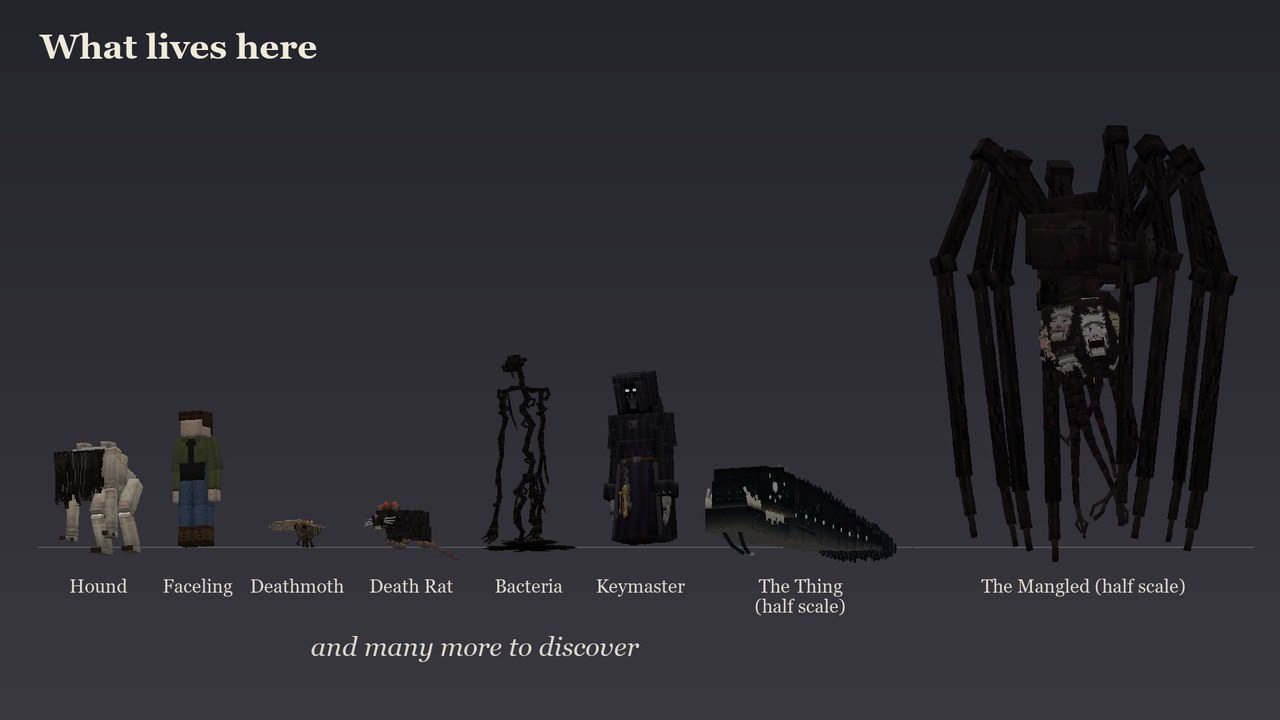
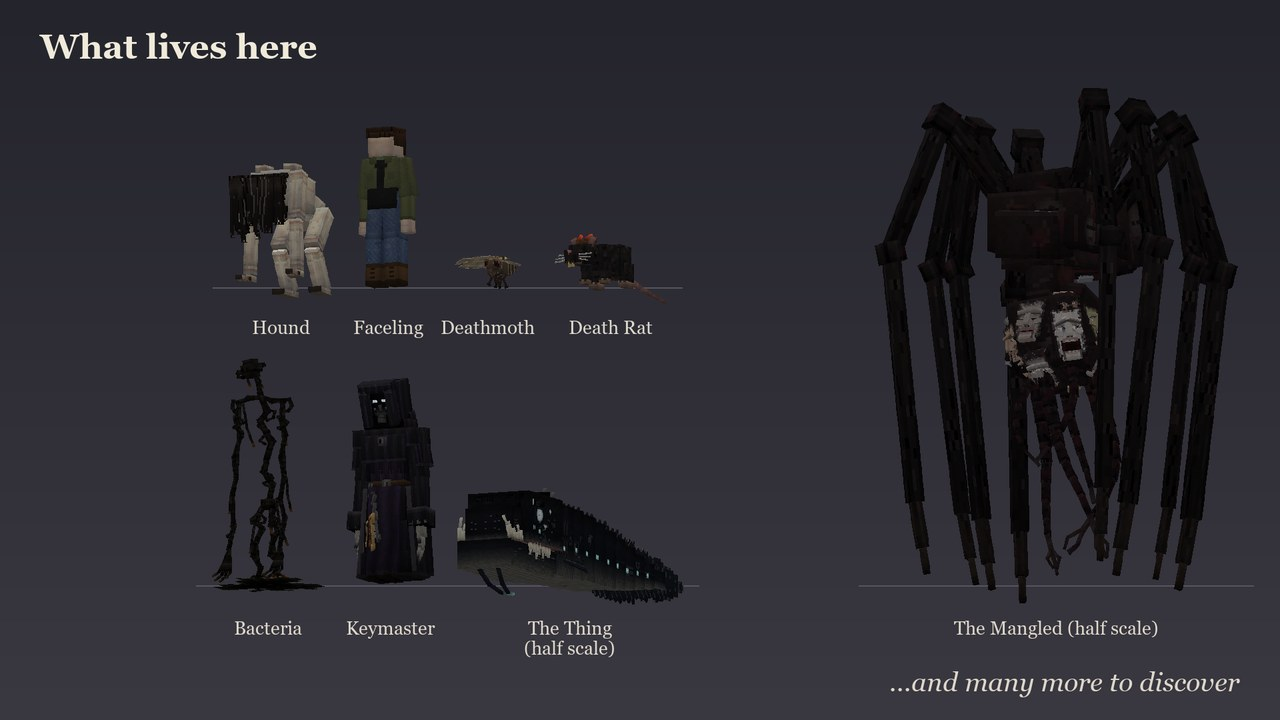
Mod page line-up: the eight in two rows beside the Mangled, larger, "...and many more to discover" bottom right

diff --git a/tools/lineup.py b/tools/lineup.py
@@ -3,7 +3,7 @@ others (the two giants at half scale), facing the viewer, standing on one ground
 
     python tools/lineup.py out.png [yaw=65] [pitch=8] [rings=1|few=1]
 
-`rings=1` draws only what lives in the rings (Levels 0 to 11), in two rows. `few=1` draws eight of them in one row
+`rings=1` draws only what lives in the rings (Levels 0 to 11), in two rows. `few=1` draws eight of them in two rows beside the Mangled
 with "and many more to discover" under it: the mod page's lineup, which keeps most of what lives here out of sight. A 1920x1080 picture in three rows, with the Mangled standing at the right beside them, scaled to fill it. `yaw` turns the models from straight on (90) so their depth shows. The renderer is the one in
 entrender.py (the game's element transforms), drawing onto a transparent canvas.
 """
@@ -125,11 +125,11 @@ RINGS = ["Smiler", "Hound", "Faceling", "Deathmoth", "Skin-Stealer", "Duller", "
          "The Beast\nof Level 5", "Giant Spider", "Neighborhood\nWatch", "Watcher", "The Thing\n(half scale)",
          "The Mangled (half scale)"]
 RINGS_ROWS = [7, 8]
-# A taste (few=1): eight, in one row, and the rest left to be met
+# A taste (few=1): eight, the small ones over the tall ones beside the Mangled, and the rest left to be met
 FEW = ["Death Rat", "Deathmoth", "Hound", "Faceling", "Bacteria", "Keymaster", "The Thing\n(half scale)",
        "The Mangled (half scale)"]
-FEW_ROWS = [7]
-FEW_CAPTION = "and many more to discover"
+FEW_ROWS = [4, 3]
+FEW_CAPTION = "...and many more to discover"
 # Drawn standing at the right, beside every row, so the rows need not be as tall as it
 SIDE = {"The Mangled (half scale)"}
 SIZE = (1920, 1080)
@@ -195,7 +195,7 @@ def main():
     label_font, title_font = font(["georgia.ttf", "times.ttf"], 28), font(["georgiab.ttf", "timesbd.ttf"], 52)
     gap, margin, top, label_h, row_gap = 26, 60, 130, 58, 18
     caption_font = font(["georgiai.ttf", "timesi.ttf", "georgia.ttf"], 40)
-    caption_h = 90 if FEW_ONLY else 0  # room under the rows for the caption
+    caption_h = 56 if FEW_ONLY else 0  # room at the bottom for the caption, in the bottom right corner
 
     # Measure at a reference scale, then render again at the largest scale that fits the frame (labels keep their
     # size, so shrink a little more until every row fits beside the side figure's column)
@@ -225,13 +225,18 @@ def main():
     d.text((margin, 40), "What lives here", font=title_font, fill=(240, 234, 218))
 
     # Share the spare height out between the rows; the rows sit left of the side figure's column
-    used = sum(a + b for _, _, a, b in rows) + sum(label_h + LINE_H * (label_lines(r) - 1) for r, _, _, _ in rows) + row_gap * (len(rows) - 1)
-    if side:
-        used = max(used, side[1].height + label_h)  # (the side figure is the tallest thing: centre on it)
-    spare = max(0, H - top - 30 - caption_h - used) / (len(rows) + 1)
-    y = top + spare
-    if side:
-        y += max(0, side[2] - rows[0][2])  # (the ground line goes under the side figure's full height, not the row's)
+    labels_h = [label_h + LINE_H * (label_lines(r) - 1) for r, _, _, _ in rows]
+    used = sum(a + b for _, _, a, b in rows) + sum(labels_h) + row_gap * (len(rows) - 1)
+    if FEW_ONLY and side:
+        # A tight stack, centred together with the side figure, whose feet stand on the last row's ground line
+        last_from_top = used - (rows[-1][3] + labels_h[-1])
+        above_line = max(last_from_top, side[2])
+        below_line = max(rows[-1][3] + labels_h[-1], side[1].height - side[2] + label_h)
+        spare = 0
+        y = top + max(0, H - top - 30 - caption_h - above_line - below_line) / 2 + above_line - last_from_top
+    else:
+        spare = max(0, H - top - 30 - caption_h - used) / (len(rows) + 1)
+        y = top + spare
     base = 0
     for row, width, above, below in rows:
         base = int(y + above)
@@ -256,8 +261,7 @@ def main():
         d.text((x + (slot - lw) / 2, base + int(last_below) + 16), label, font=label_font, fill=(222, 216, 204))
     if FEW_ONLY:
         cw = caption_font.getbbox(FEW_CAPTION)[2]
-        # (Just under the last row's names: y is already past them, the row gap and the shared spare)
-        d.text((margin + (region - cw) / 2, y - spare - row_gap + 8), FEW_CAPTION, font=caption_font, fill=(222, 216, 204))
+        d.text((W - margin - cw, H - 30 - caption_h + 6), FEW_CAPTION, font=caption_font, fill=(222, 216, 204))
     sheet.convert("RGB").save(out)
     print(out, sheet.size, f"{ppb:.0f} px per block")
 
